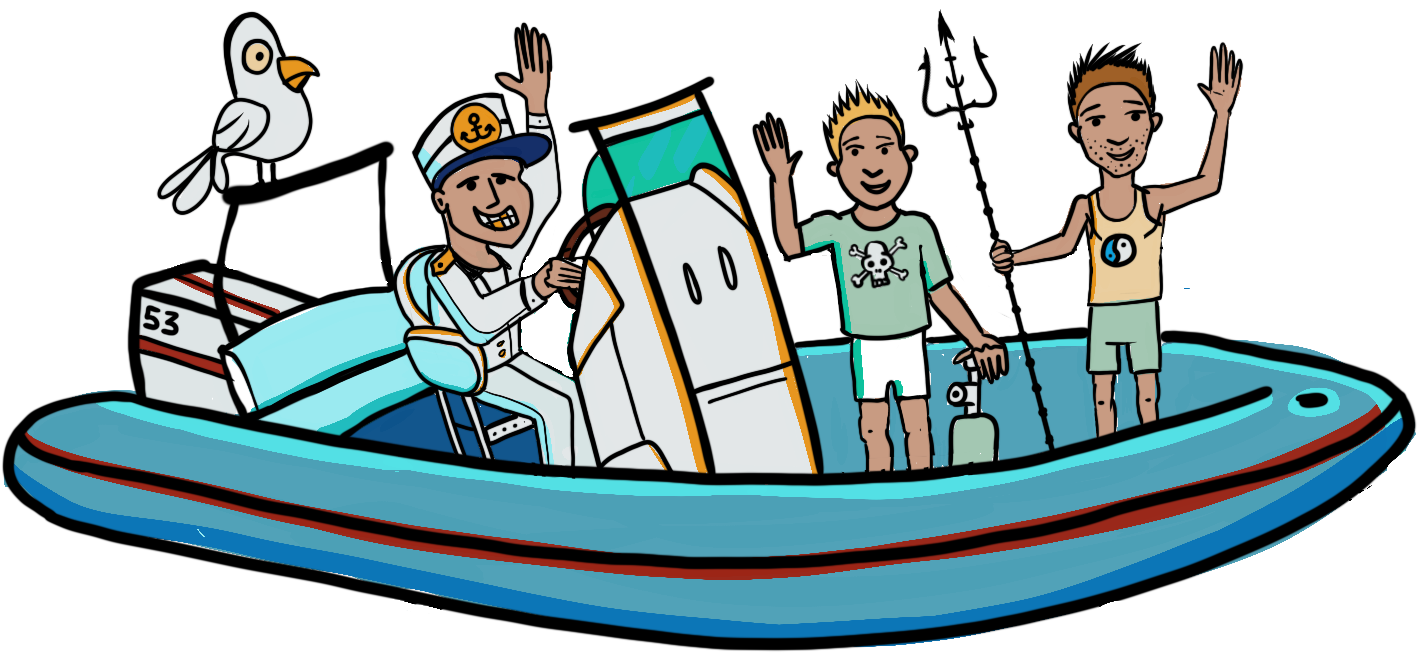
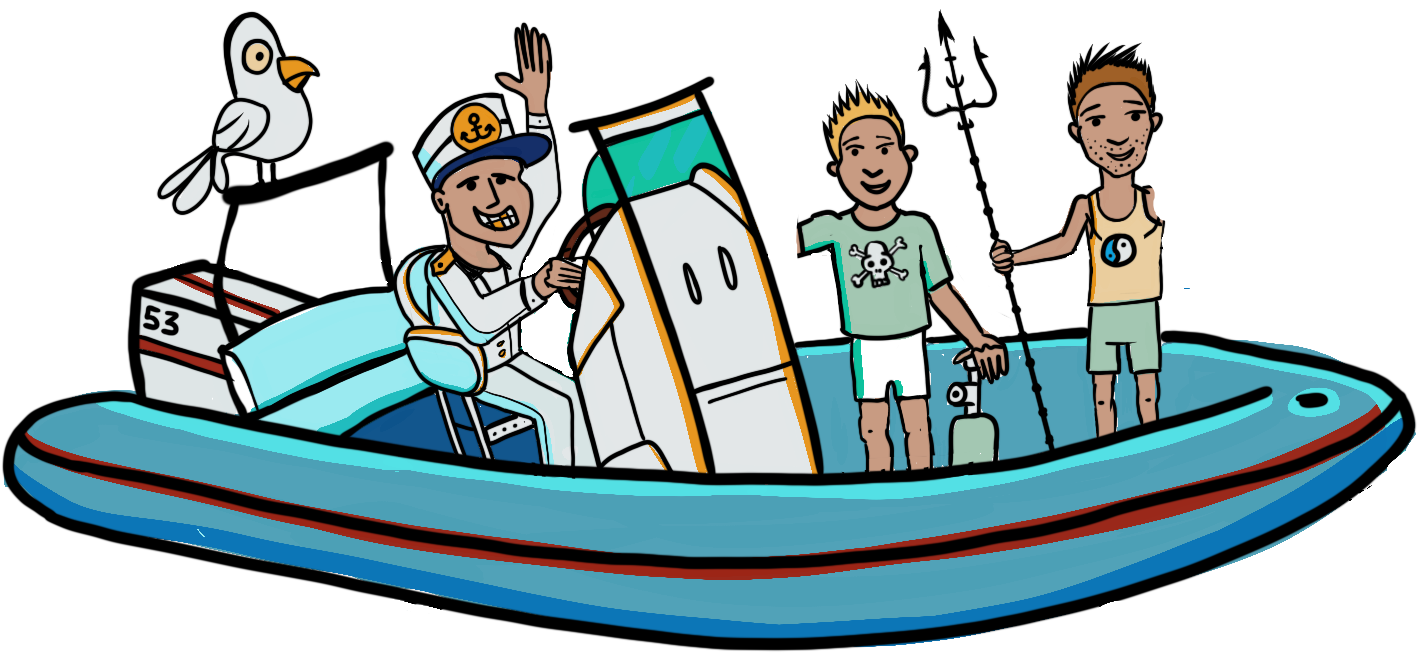
save

Changed region(s): [[0.8056, 0.0611, 0.8986, 0.3359], [0.5268, 0.1832, 0.5887, 0.3969]]

diff --git a/src/assets/js/Home.scss b/src/assets/js/Home.scss
@@ -1,3 +1,64 @@
+@keyframes MoveUpDown {
+    0%,
+    100% {
+        top: -0.5%;
+    }
+    50% {
+        top: -.2%;
+    }
+}
+
+@keyframes spin {
+    0% {
+        transform: rotate(0deg);
+        /* Firefox 16+, IE 10+, Opera */
+    }
+    100% {
+        transform: rotate(360deg);
+        /* Firefox 16+, IE 10+, Opera */
+    }
+}
+
+@keyframes MoveFerry {
+    0% {
+        left: -20%;
+    }
+    100% {
+        left: 110%;
+    }
+}
+
+@keyframes MoveBoat {
+    0% {
+        transform: rotate(0deg);
+        top: 6.2%;
+    }
+    50% {
+        top: 6.5%;
+        transform: rotate(2deg);
+    }
+}
+
+@keyframes Waving {
+    0% {
+        transform: rotate(0deg);
+    }
+    50% {
+        transform: rotate(5deg);
+    }
+}
+
+.lava {
+    background: url('./../img/lava.png');
+    background-size: 100% auto;
+    background-repeat: no-repeat;
+    position: absolute;
+    left: 64.2%;
+    top: -0.3%;
+    height: 5%;
+    width: 13%;
+}
+
 .home {
     background-image: url('./../img/bg.jpg');
     position: relative;
@@ -28,53 +89,6 @@
         left: 0;
         bottom: 0;
     }
-    @keyframes MoveUpDown {
-        0%,
-        100% {
-            top: -0.5%;
-        }
-        50% {
-            top: -.2%;
-        }
-    }
-    @keyframes spin {
-        0% {
-            transform: rotate(0deg);
-            /* Firefox 16+, IE 10+, Opera */
-        }
-        100% {
-            transform: rotate(360deg);
-            /* Firefox 16+, IE 10+, Opera */
-        }
-    }
-    @keyframes MoveFerry {
-        0% {
-            left: -20%;
-        }
-        100% {
-            left: 110%;
-        }
-    }
-    @keyframes MoveBoat {
-        0% {
-            transform: rotate(0deg);
-            top: 6.2%;
-        }
-        50% {
-            top: 6.5%;
-            transform: rotate(2deg);
-        }
-    }
-    .lava {
-        background: url('./../img/lava.png');
-        background-size: 100% auto;
-        background-repeat: no-repeat;
-        position: absolute;
-        left: 64.2%;
-        top: -0.3%;
-        height: 5%;
-        width: 13%;
-    }
     .sun_fire {
         background: url('./../img/sun_fire.png');
         background-size: 100% auto;
@@ -104,7 +118,7 @@
         background-repeat: no-repeat;
         position: absolute;
         left: 4.9%;
-        top: 8.6%;
+        top: 8.7%;
         height: 4%;
         width: 19.5%;
         animation: MoveFerry 88s linear infinite;
@@ -119,6 +133,42 @@
         height: 33%;
         width: 49.5%;
         transform-origin: 50% 50%;
-        animation: MoveBoat 6s linear infinite;
+        animation: MoveBoat 4s linear infinite;
+        .teacher_arm {
+            background: url('./../img/teacher_arm.png');
+            background-size: 100% auto;
+            background-repeat: no-repeat;
+            position: absolute;
+            left: 53.15%;
+            top: 7.56%;
+            height: 10%;
+            width: 3.5%;
+            transform-origin: 0% 100%;
+            animation: Waving 1s linear infinite;
+        }
+        .gonza_arm {
+            background: url('./../img/gonza_arm.png');
+            background-size: 100% auto;
+            background-repeat: no-repeat;
+            position: absolute;
+            left: 80.62%;
+            top: 3.56%;
+            height: 12%;
+            width: 6.5%;
+            transform-origin: 0% 100%;
+            animation: Waving 1s linear infinite;
+        }
+    }
+    .diver_arm {
+        background: url('./../img/diver_arm.png');
+        background-size: 100% auto;
+        background-repeat: no-repeat;
+        position: absolute;
+        left: 5.1%;
+        top: 12.56%;
+        height: 5%;
+        width: 3.5%;
+        transform-origin: 0% 100%;
+        animation: Waving 1s linear infinite;
     }
 }

diff --git a/src/assets/js/Home.tsx b/src/assets/js/Home.tsx
@@ -8,7 +8,11 @@ function Home() {
    <div className='sun_fire'></div>
    <div className='sun_face'></div>
    <div className='ferry'></div>
-   <div className='boat'></div>
+   <div className='boat'>
+    <div className='teacher_arm'></div>
+    <div className='gonza_arm'></div>
+   </div>
+   <div className='diver_arm'></div>
   </div>
  );
 }
